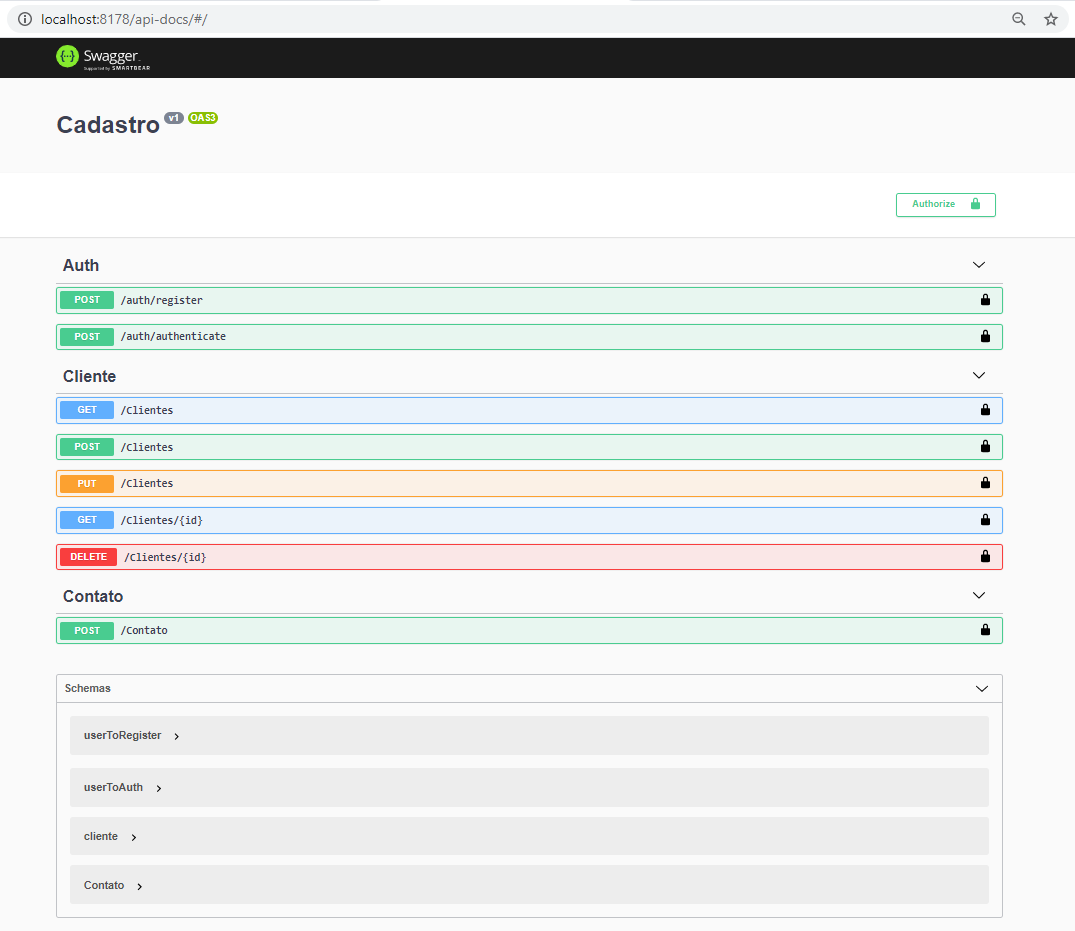
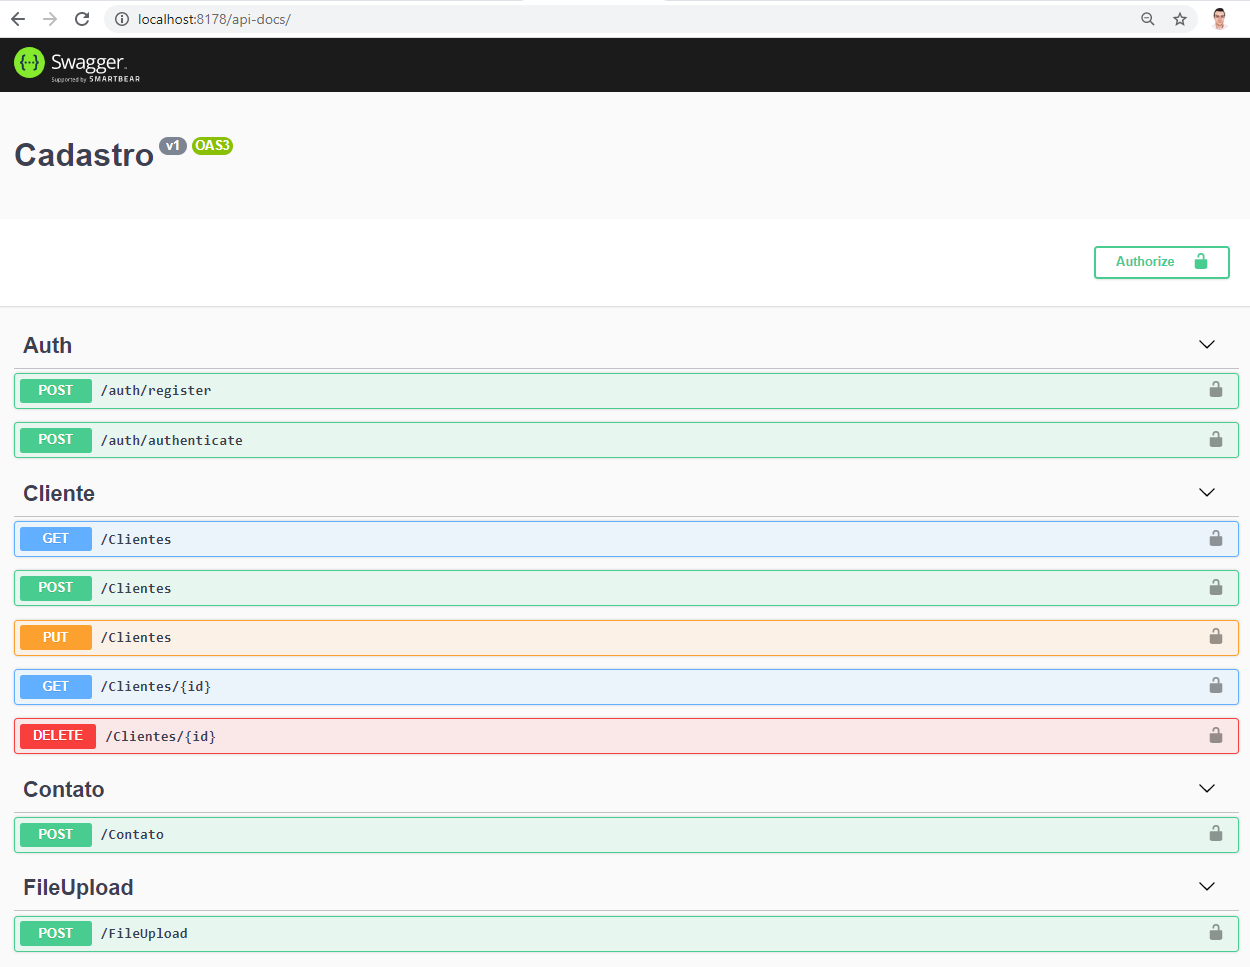
file upload

diff --git a/src/app/controllers/fileUploadController.js b/src/app/controllers/fileUploadController.js
@@ -1,0 +1,33 @@
+const express = require("express");
+const authMiddleware = require("../middlewares/auth");
+const multer = require("multer");
+const upload = multer({ dest: "uploads/" });
+
+const router = express.Router();
+
+router.use(authMiddleware);
+
+router.post("", async (req, res) => {
+    
+  // verifica se recebeu o arquivo no statement
+  var carregar = upload.single("statement");
+  carregar(req, res, function (err) {
+    if (err) {
+      return res.status(400).send({ error: "Erro ao tentar fazer upload!" });
+    }
+
+    // verifica se arquivo existe
+    const file = req.file;
+    if (!file) {
+      return res.status(400).send({ error: "Erro ao tentar fazer upload!" });
+    }
+    // exibir log
+    // console.log(`new upload = ${req.file.filename}\n`);
+    // console.log(req.file);
+    return res
+      .status(200)
+      .send({ success: "Arquivo armazenado com  sucesso!" });
+  });
+});
+
+module.exports = (app) => app.use("/FileUpload", router);
